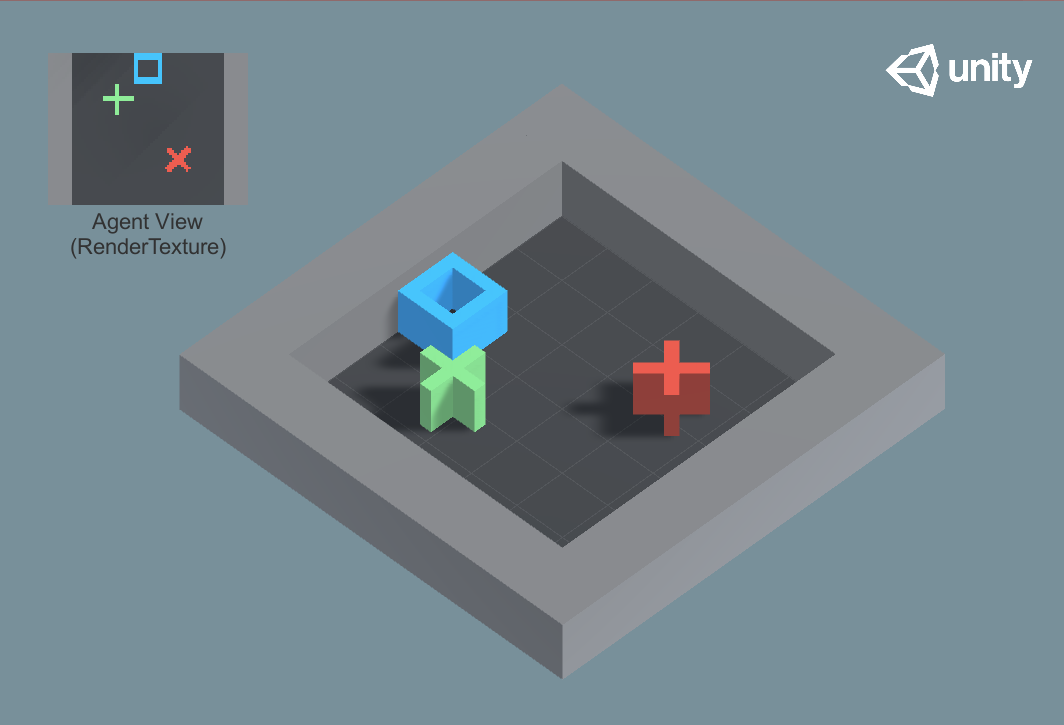
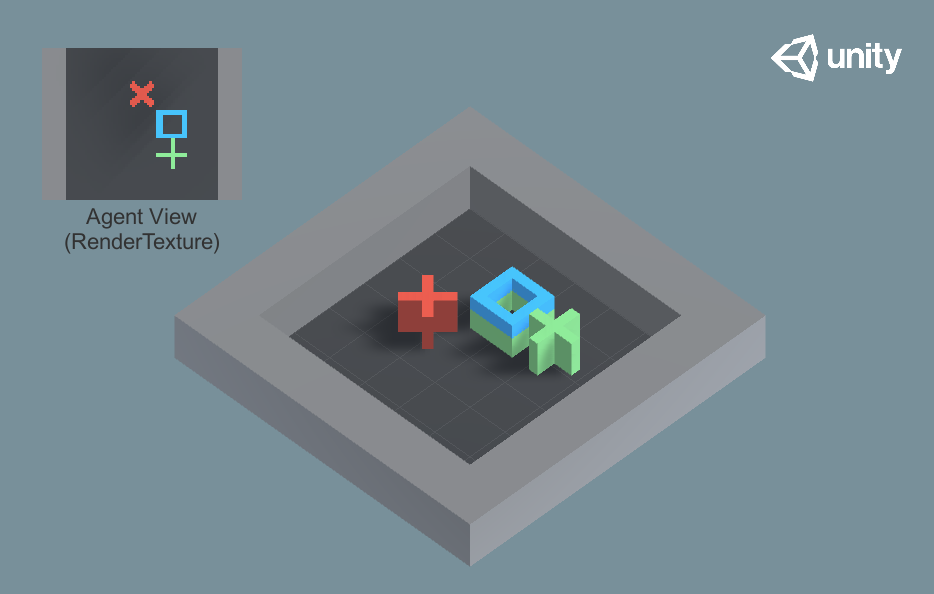
Documentation change on gridworld

diff --git a/docs/Learning-Environment-Examples.md b/docs/Learning-Environment-Examples.md
@@ -82,16 +82,16 @@ you would like to contribute environments, please see our
 
 ![GridWorld](images/gridworld.png)
 
-- Set-up: A version of the classic grid-world task. Scene contains agent, goal,
+- Set-up: A version of the grid-world task. Scene contains agent, goal,
   and obstacles.
-- Goal: The agent must navigate the grid to the goal while avoiding the
-  obstacles.
+- Goal: The agent must navigate the grid to the appropriate goal while
+  avoiding the obstacles.
 - Agents: The environment contains nine agents with the same Behavior
   Parameters.
 - Agent Reward Function:
   - -0.01 for every step.
-  - +1.0 if the agent navigates to the goal position of the grid (episode ends).
-  - -1.0 if the agent navigates to an obstacle (episode ends).
+  - +1.0 if the agent navigates to the correct goal (episode ends).
+  - -1.0 if the agent navigates to an incorrect goal (episode ends).
 - Behavior Parameters:
   - Vector Observation space: None
   - Actions: 1 discrete action branch with 5 actions, corresponding to movement in
@@ -101,8 +101,10 @@ you would like to contribute environments, please see our
     checkbox within the `trueAgent` GameObject). The trained model file provided
     was generated with action masking turned on.
   - Visual Observations: One corresponding to top-down view of GridWorld.
-- Float Properties: Three, corresponding to grid size, number of obstacles, and
-  number of goals.
+  - Goal Signal : A one hot vector corresponding to which color is the correct goal
+  for the Agent
+- Float Properties: Three, corresponding to grid size, number of green goals, and
+  number of red goals.
 - Benchmark Mean Reward: 0.8
 
 ## Push Block
